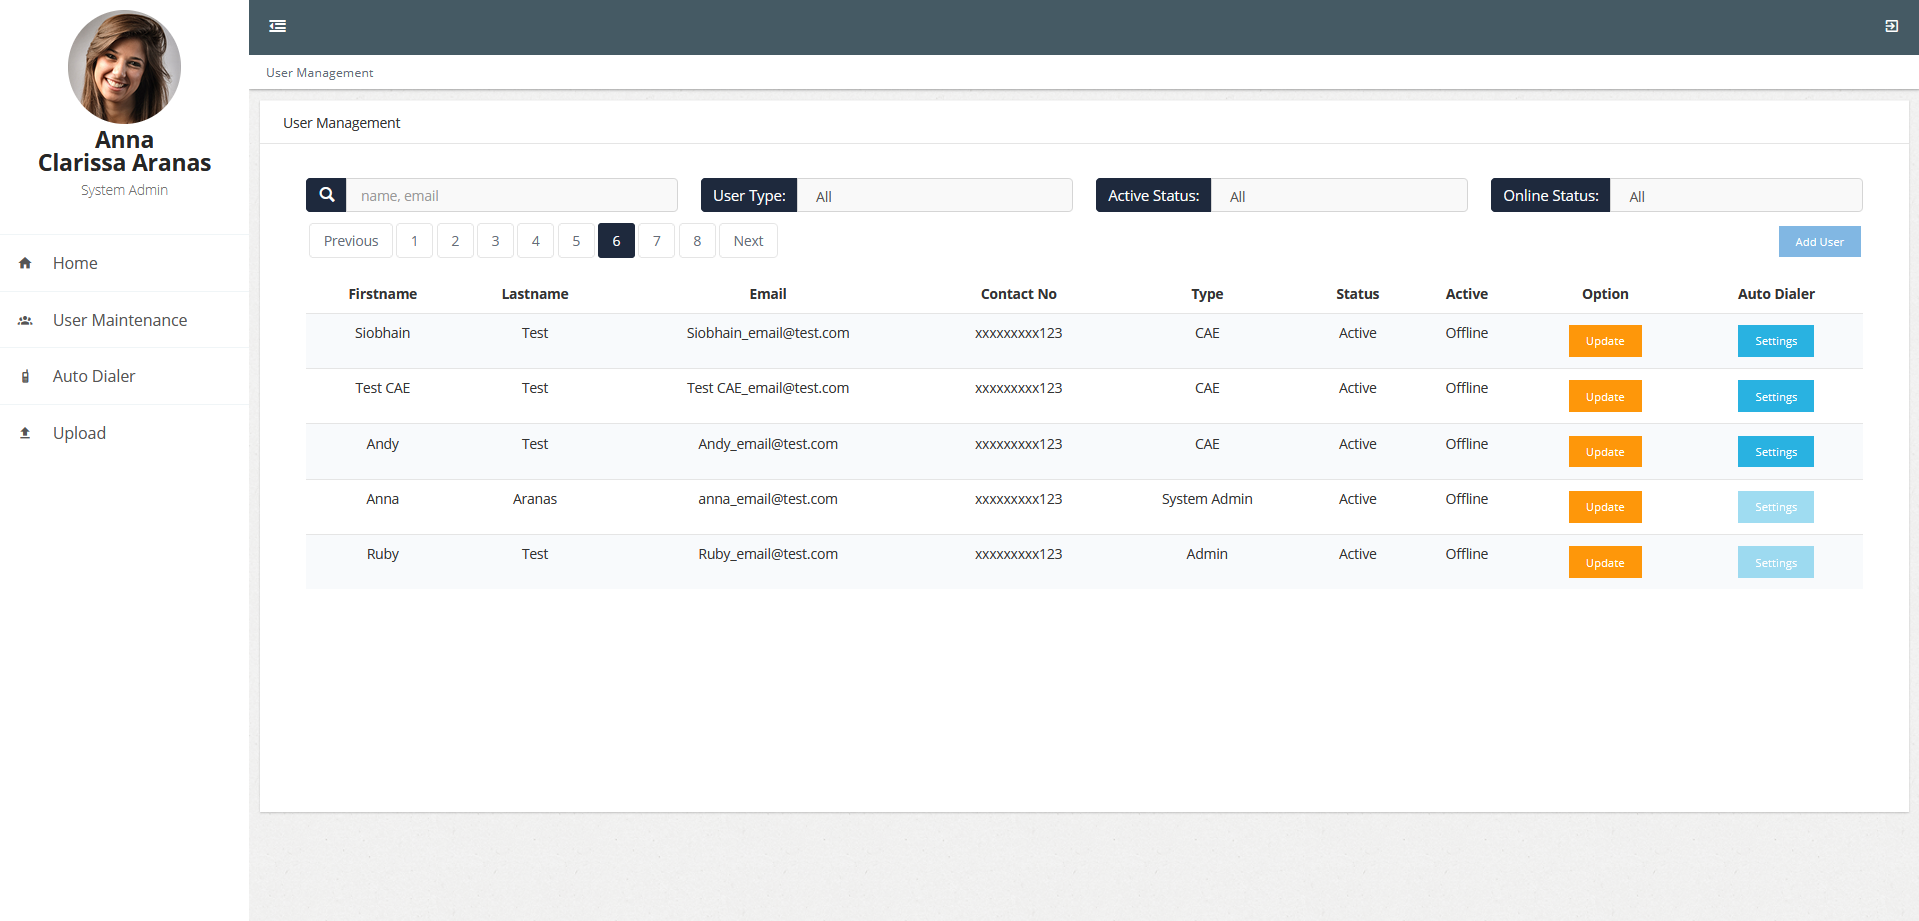
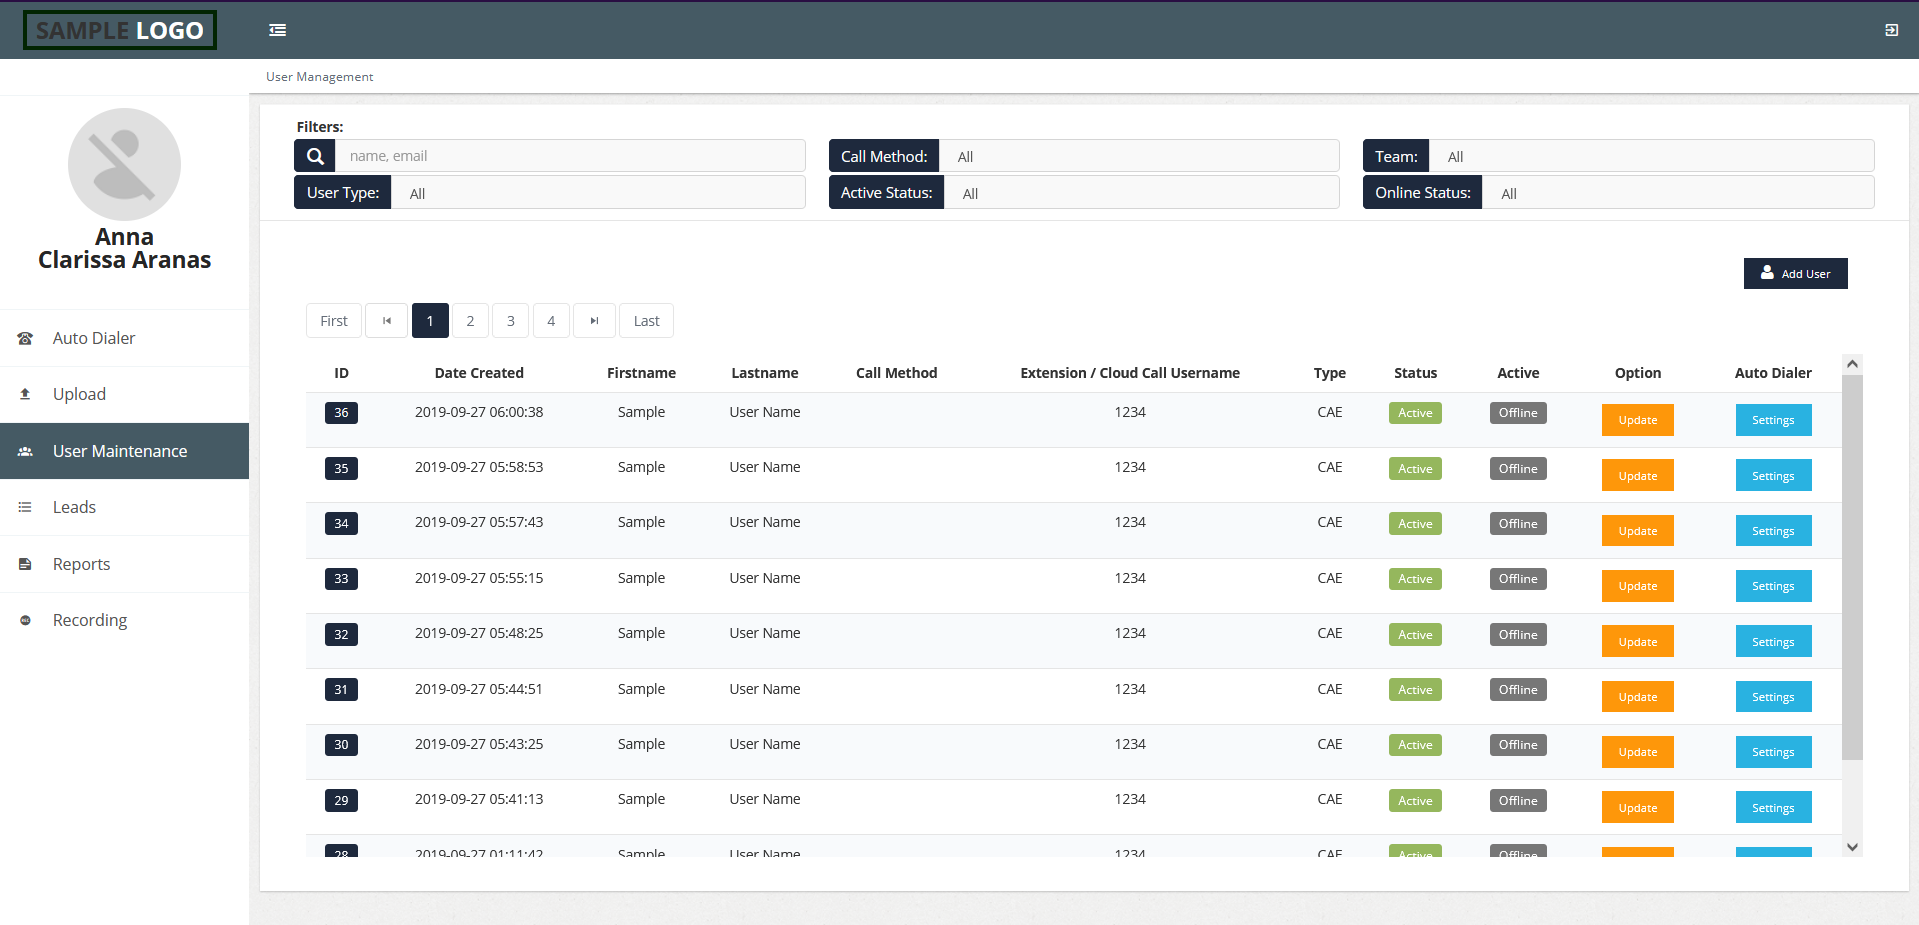
update project descriptions and autodialer img

diff --git a/index.html b/index.html
@@ -80,7 +80,8 @@
               <span class="language-tag mysql">MySQL</span>
               <span class="language-tag bootstrap">Bootstrap</span>
             </p>
-            <p> This is a simple system where students can submit their admission application for enrollment. Can view list of available events, courses, and school information. The admins can do the approval of the student applications, can post events, manage courses and activate available semester. Admins can also update their login information. Only the System Admin can enable/disable and add other admin.</p>
+            <p>Students can submit their admission applications for enrollment, receive confirmation email, can view list of available events, courses, and school information. <br>
+               Admins can do the approval of the students, can post events, manage courses, and activate available semesters. Admins can also update their login information. Only the System Admin can enable/disable and add other admin.</p>
             <button class="modal-cta" onclick="setModal('School Admission System', '2021')">Visuals</button>
 
           </div>
@@ -98,9 +99,9 @@
               <span class="language-tag bootstrap">Bootstrap</span>
             </p>
             <p> 
-              Back-End Web Developer at Holborn Assets Adviser Connect CRM. </br>
+              Back-End Web Developer at Holborn Assets Adviser Connect CRM. <br>
               The nature of this work is confidential so I cannot show visuals. But, I worked on multiple systems and modules inside this CRM like Quality Assurance Module and Approval,
-              Lead Uploader, Lead Management, Lead Generation Reports, User Maintenance, Fact Find and Risk Profiler. 
+              Lead Uploader, Lead Management, Lead Generation Reports, User Maintenance, Fact Find, and Risk Profiler. 
             </p>
           
           </div>
@@ -119,15 +120,9 @@
             </p>
            
               <p>
-              This is basically a website where Researchers can upload list of leads and view their statistics, QAs can do the approval and Admins for managing all users, reports and leads. </p>
-              <p>
-            
-              My part
-              Reasercher Module (uploading leads, deep background validations, search duplicates, add and update)
-              Quality Assurance Module (individual approval of leads, search all possible duplicates and filters, one upload mass approval with deep background check)
-              Report Module (Query and generate different type of reports)
-              Lead Management Module (Update information, View history)
-              User Management Module (Add, update and manage user settings)</p>
+                Researchers can view their research statistics in Dashboard, and can manually add or upload their list of leads<br>
+                QAs can do individual and mass lead approvals.  <br>
+                Admins can manage both leads and users, and can generate reports.</p>
               <button class="modal-cta" onclick="setModal('Lead Affiliate Website', '2019 - 2021')">Visuals</button>
           </div>
           <div class="project-img">
@@ -145,7 +140,10 @@
               <span class="language-tag express">Express</span>
               <span class="language-tag redis">Redis</span>
             </p>
-            <p> Lorem Ipsum is simply dummy text of the printing and typesetting industry. Lorem Ipsum has been the industry's standard dummy text ever since the 1500s, when an unknown printer took a galley of type and scrambled it to make a type specimen book</p>
+            <p>
+              On the client side, users can send messages, receive notifications, send report issues, and view FAQs. <br>
+              On the admin side, admins receive notifications, can view and reply to the client's messages, manage and update report issues, add, update, and delete FAQs and do user maintenance.
+            </p>
             <button class="modal-cta" onclick="setModal('HELPDESK', '2019')">Visuals</button>
           </div>
           <div class="project-img">
@@ -161,7 +159,11 @@
               <span class="language-tag mysql">MySQL</span>
               <span class="language-tag bootstrap">Bootstrap</span>
             </p>
-            <p> Lorem Ipsum is simply dummy text of the printing and typesetting industry. Lorem Ipsum has been the industry's standard dummy text ever since the 1500s, when an unknown printer took a galley of type and scrambled it to make a type specimen book</p>
+            <p> 
+              CAEs can do the calls, update lead status, and view their call statistics. <br>
+              Admins can manage user information and CAE call settings, can upload and export leads, and can generate different reports. <br>
+              (My part here is more on the admin side)
+            </p>
             <button class="modal-cta" onclick="setModal('AUTODIALER', '2019')">Visuals</button>
           </div>
           <div class="project-img">

diff --git a/append.js b/append.js
@@ -317,8 +317,8 @@ function setObject(projectType) {
 
       var obj = new Object();
       obj.id = "Upload";
-      obj.name = "Upload";
-      obj.divClass = "noScroll";
+      obj.name = "Upload and Export";
+      obj.divClass = "";
       obj.img = "./img/projects/Autodialer/Upload.png";
       obj.hr = false;
       arr.push(obj);      
@@ -333,11 +333,27 @@ function setObject(projectType) {
 
       var obj = new Object();
       obj.id = "UserSettings";
-      obj.name = "User Settings";
+      obj.name = "Autodialer Settings";
       obj.divClass = "noScroll";
       obj.img = "./img/projects/Autodialer/UserSettings.png";
       obj.hr = false;
       arr.push(obj);      
+
+      var obj = new Object();
+      obj.id = "LeadMaintenance";
+      obj.name = "Lead Maintenance";
+      obj.divClass = "";
+      obj.img = "./img/projects/Autodialer/LeadMaintenance.png";
+      obj.hr = false;
+      arr.push(obj);     
+      
+      var obj = new Object();
+      obj.id = "Reports";
+      obj.name = "Reports";
+      obj.divClass = "noScroll";
+      obj.img = "./img/projects/Autodialer/Reports.png";
+      obj.hr = false;
+      arr.push(obj); 
     break;
   
     default:
